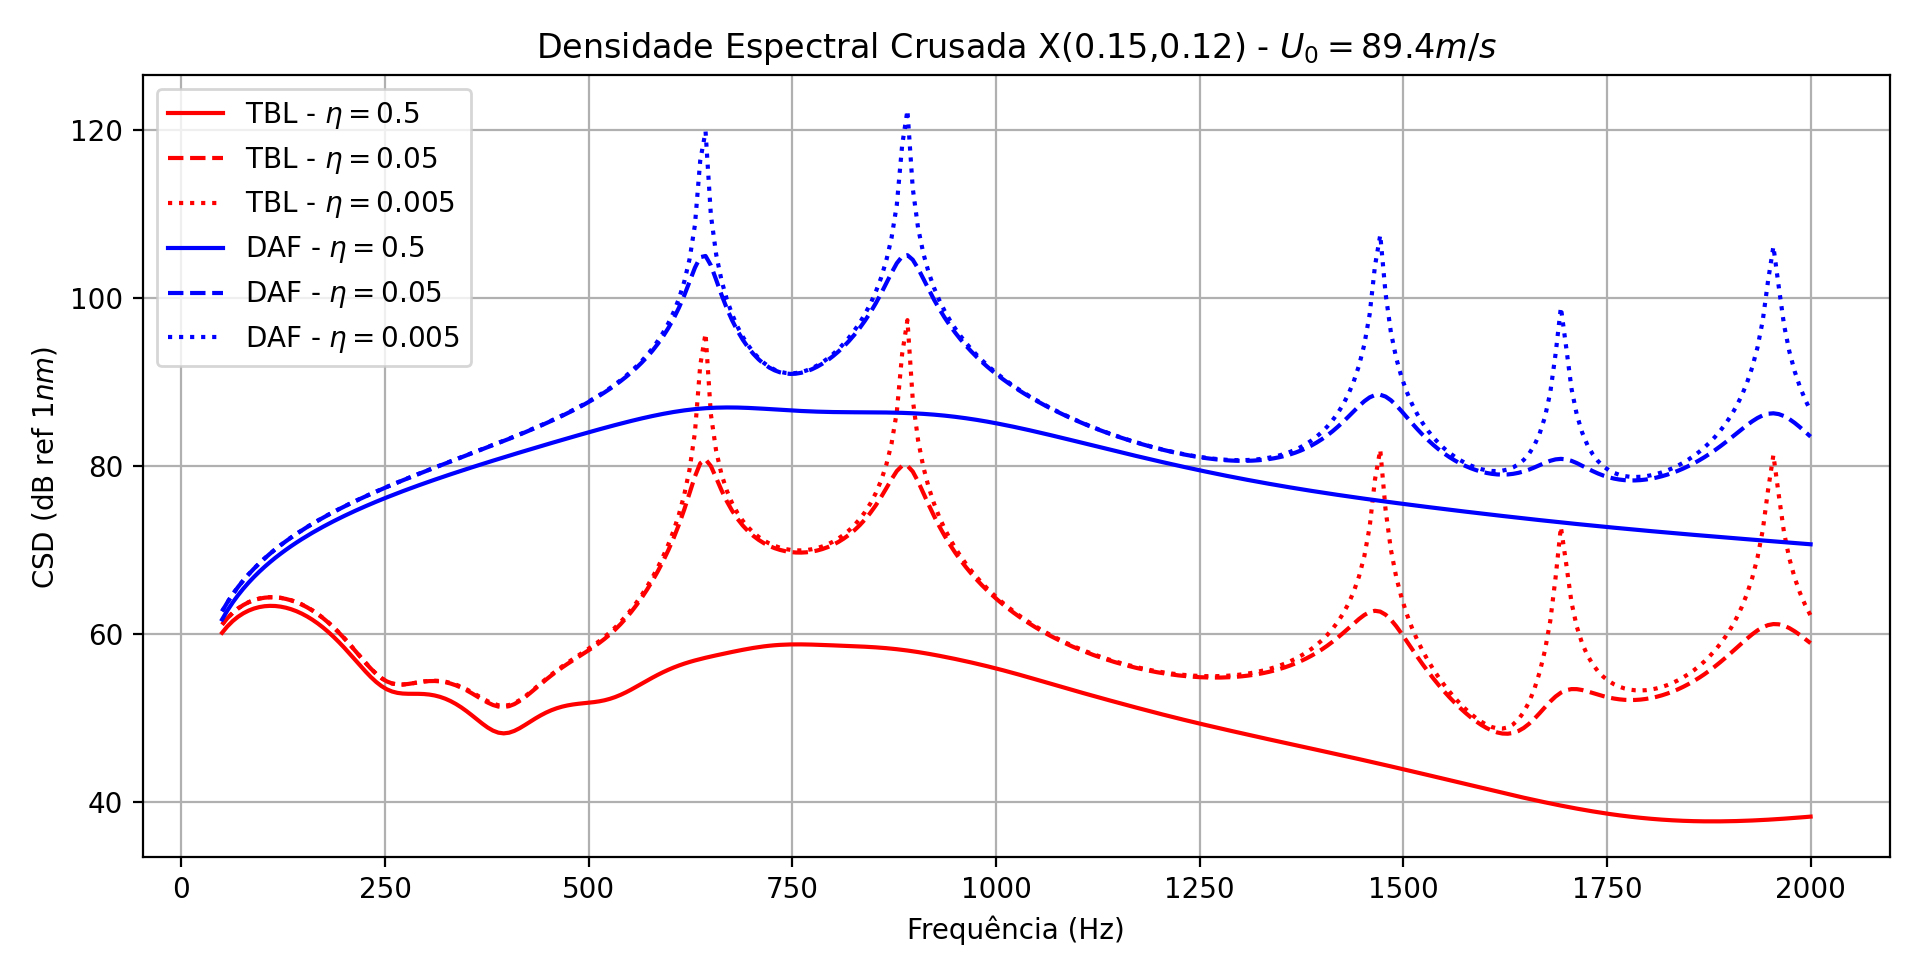
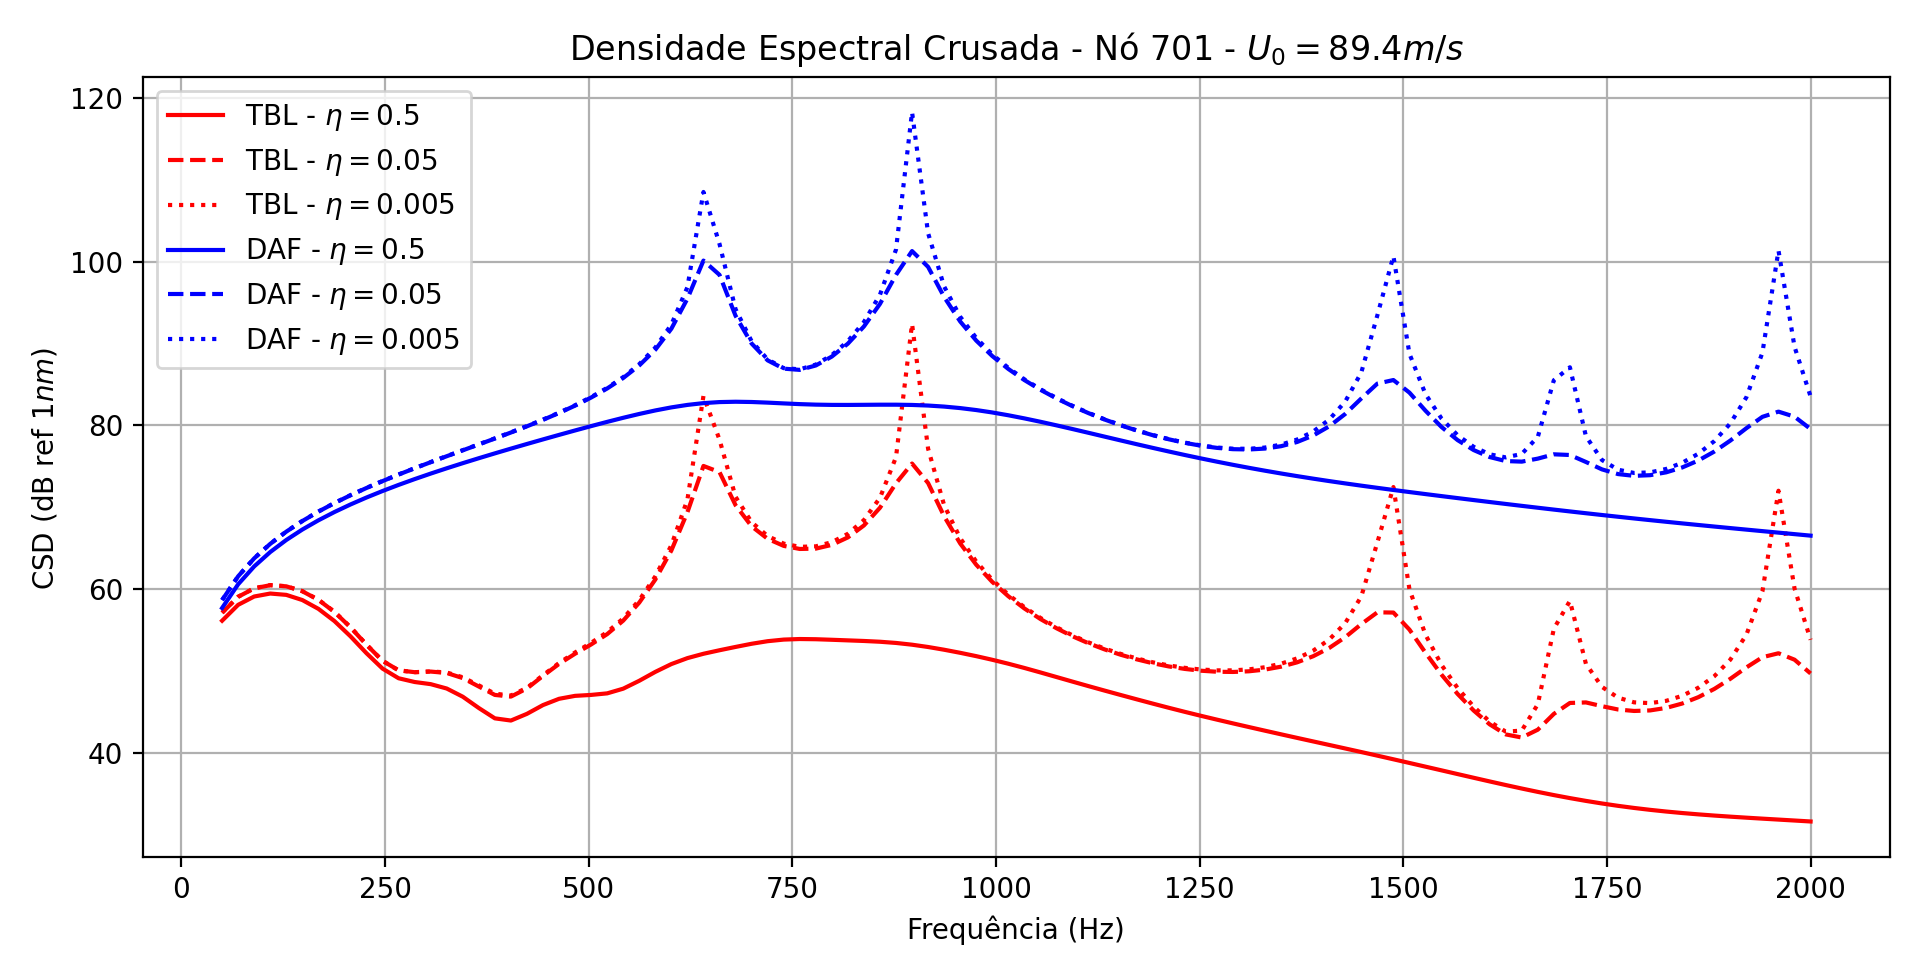
aeee porra

diff --git a/trabs/MAIN.py b/trabs/MAIN.py
@@ -1,6 +1,6 @@
 # %%
 import numpy as np
-
+from tqdm import tqdm
 import matplotlib.pyplot as plt
 import SHELL4 as fems4
 import SOLVE as solv
@@ -30,9 +30,9 @@ if __name__ == "__main__":
     
     
     # Propriedades
-    E = 210e9
-    rho = 8000
-    v = 0.3
+    E = 200e9
+    rho = 7850
+    v = 0.33
     alpha_x = 0.11
     alpha_y = 0.7
     rho_air =  1.1845
@@ -99,9 +99,9 @@ if __name__ == "__main__":
     print('Frequências Naturais:')
     print(natural_frequencies)
     # %%
-    freq = np.linspace(50,2000,300)
+    freq = np.linspace(50,2000,100)
     psd = pd.DataFrame(index=freq, dtype=float)
-    csd = pd.DataFrame(index=freq, dtype=complex)
+    csd = pd.DataFrame(index=freq, dtype=np.complex64)
     Vr = modal_shape[z_dofs,:]  # Modos normais
     wn = 2 * np.pi * natural_frequencies  # Frequências naturais (rad/s)
 <<<<<<< HEAD
@@ -122,27 +122,27 @@ if __name__ == "__main__":
     ksin = norm(np.stack((ksix,ksiy)),2,0)
     np.fill_diagonal(ksin,1)
     # %%
-    # Function to compute phi_pb for a specific frequency index kk
+    
     def compute_Gamma_DAF(kk,  k0,  ksin):
         Gamma = np.sin(k0 * ksin) / (k0 * ksin)
         return Gamma, kk
 
     # Preallocate arrays
-    Gamma_DAF = np.zeros((nnode, nnode, len(w_array)), dtype=complex)
+    Gamma_DAF = np.zeros((nnode, nnode, len(w_array)), dtype=np.complex64)
 
     # Parallel computation of phi_pb using joblib
     results_DAF = Parallel(n_jobs=-1)(delayed(compute_Gamma_DAF)(
         kk, k0, ksin) for kk, k0 in enumerate(k0_array))
 
     # Combine the results back into phi_pb
-    for Gamma, kk in results_DAF:
+    for Gamma, kk in tqdm(results_DAF):
         Gamma_DAF[:, :, kk] = Gamma
 
     #%%
-    for n_eta, eta in enumerate([0.5, 0.05, 0.005]):
+    for n_eta, eta in enumerate(tqdm([0.5, 0.05, 0.005])):
 
         # Inicializando as FRFs    
-        Hv = np.zeros((len(z_dofs), len(z_dofs), len(freq)), dtype=complex)
+        Hv = np.zeros((len(z_dofs), len(z_dofs), len(freq)), dtype=np.complex64)
         
         # Pré-calculando termos repetidos para otimização
         eta_wn2 = eta * wn**2  # Termo de amortecimento modal
@@ -151,7 +151,7 @@ if __name__ == "__main__":
         # Function to compute the FRF for a specific (glf, glr) pair
         def compute_FRF(glr, glf, w_array, wn2, eta_wn2, Vr, modes):
             # Initialize the result for this pair
-            Hv_glr_glf = np.zeros_like(w_array, dtype=complex)
+            Hv_glr_glf = np.zeros_like(w_array, dtype=np.complex64)
             
             # Calculate the denominator and FRF for each mode
             for k in range(modes):
@@ -163,17 +163,17 @@ if __name__ == "__main__":
             
             return Hv_glr_glf, glr, glf
         # Preallocate the array to store the final Hv
-        Hv = np.zeros((nnode, nnode, len(w_array)), dtype=complex)
+        Hv = np.zeros((nnode, nnode, len(w_array)), dtype=np.complex64)
 
         # Parallel computation of FRFs using joblib
         results = Parallel(n_jobs=-2)(delayed(compute_FRF)(
-            glr, glf, w_array, wn2, eta_wn2, Vr, modes) for glr in np.arange(nnode) for glf in np.arange(nnode))
+            glr, glf, w_array, wn2, eta_wn2, Vr, modes) for glr in np.arange(nnode) for glf in check_node)
 
         # Aggregate the results back into Hv
-        for Hv_glr_glf, glr, glf in results:
+        for Hv_glr_glf, glr, glf in tqdm(results):
             Hv[glr, glf, :] = Hv_glr_glf
         
-        for n_U0, U0 in enumerate([44.7, 89.4, 178.8]):
+        for n_U0, U0 in enumerate(tqdm([44.7, 89.4, 178.8])):
             Re_d = 8 * U0*d_/v_air
             tau_w = (0.0225 * rho_air * U0**2)/(Re_d**0.25)
             # Pré-computando constantes fora dos loops
@@ -185,7 +185,7 @@ if __name__ == "__main__":
             ksix = coord[:, None, 0] - coord[None, :, 0]  # Diferenças em x
             ksiy = coord[:, None, 1] - coord[None, :, 1]  # Diferenças em y
             Aij = (tamanho_elemento)**2  # Precomputando Aij fora do loop
-            Aij = 0.47*0.37  # Precomputando Aij fora do loop
+            Aij = 0.47*0.37/nnode  # Precomputando Aij fora do loop
             # Função paralelizada que será aplicada em cada frequência
             def compute_Gamma_TBL(kk, w, Uc, ksix, ksiy, alpha_x, alpha_y, Aij):
                 ksix_Uc = np.abs(w * ksix / Uc)
@@ -193,7 +193,7 @@ if __name__ == "__main__":
                 # Precomputando o termo Gamma
                 exp_x = np.exp(-alpha_x * ksix_Uc)  # Parte exponencial para ksix
                 exp_y = np.exp(-alpha_y * ksiy_Uc)  # Parte exponencial para ksiy
-                complex_exp = np.exp(1j * w * ksix / Uc)  # Parte exponencial complexa
+                complex_exp = np.exp(1j * w * ksix / Uc)  # Parte exponencial np.complex64a
 
                 Gamma = (1 + alpha_x * ksix_Uc) * exp_x * complex_exp * exp_y
                 return Gamma, kk
@@ -204,8 +204,8 @@ if __name__ == "__main__":
                 kk, w, Uc, ksix, ksiy, alpha_x, alpha_y, Aij) for kk, (w,  Uc) in enumerate(zip(w_array, Uc_array)))
 
             # Atualizando Gamma_w com os resultados paralelizados
-            Gamma_TBL = np.zeros((nnode,nnode,len(freq)), dtype=complex)   
-            for Gamma, kk in results_TBL:
+            Gamma_TBL = np.zeros((nnode,nnode,len(freq)), dtype=np.complex64)   
+            for Gamma, kk in tqdm(results_TBL):
                 Gamma_TBL[:,:,kk] = Gamma
 
             
@@ -224,15 +224,15 @@ if __name__ == "__main__":
 =======
 >>>>>>> 10da5ea (try out)
              
-            Gvv_TBL = np.zeros_like(Gamma_DAF, dtype=complex)
-            Gvv_DAF = np.zeros_like(Gamma_DAF, dtype=complex)
-            Gpp_TBL = np.zeros_like(Gamma_DAF, dtype=complex)
-            Gpp_DAF = np.zeros_like(Gamma_DAF, dtype=complex)
+            Gvv_TBL = np.zeros_like(Gamma_DAF, dtype=np.complex64)
+            Gvv_DAF = np.zeros_like(Gamma_DAF, dtype=np.complex64)
+            Gpp_TBL = np.zeros_like(Gamma_DAF, dtype=np.complex64)
+            Gpp_DAF = np.zeros_like(Gamma_DAF, dtype=np.complex64)
 
             
-            for ii in range(len(freq)):
-                Gvv_TBL[:,:,ii] = np.conj(Hv[:,:,ii].T)@(phi_pp[ii]*Gamma_TBL[:,:,ii])@Hv[:,:,ii]*Aij**2
-                Gvv_DAF[:,:,ii] = np.conj(Hv[:,:,ii].T)@(phi_pp[ii]*Gamma_DAF[:,:,ii])@Hv[:,:,ii]*Aij**2
+            for ii in tqdm(range(len(freq))):
+                Gvv_TBL[:,:,ii] = np.conj(Hv[:,:,ii].T)@(phi_pp[ii]*Gamma_TBL[:,:,ii])@Hv[:,:,ii]*Aij
+                Gvv_DAF[:,:,ii] = np.conj(Hv[:,:,ii].T)@(phi_pp[ii]*Gamma_DAF[:,:,ii])@Hv[:,:,ii]*Aij
                 Gpp_TBL[:,:,ii] = phi_pp[ii]*Gamma_TBL[:,:,ii]
                 Gpp_DAF[:,:,ii] = phi_pp[ii]*Gamma_DAF[:,:,ii]
                 
@@ -240,8 +240,8 @@ if __name__ == "__main__":
 
             
             psd[f'psd_{n_eta}_{n_U0}'] = phi_pp
-            csd[f'TBL_{n_eta}_{n_U0}'] = Gvv_TBL[check_node[1], check_node[1],:]
-            csd[f'DAF_{n_eta}_{n_U0}'] = Gvv_DAF[check_node[1], check_node[1],:]
+            csd[f'TBL_{n_eta}_{n_U0}'] = Gvv_TBL[check_node[0], check_node[0],:]
+            csd[f'DAF_{n_eta}_{n_U0}'] = Gvv_DAF[check_node[0], check_node[0],:]
 
     # %% 
     eta = [0.5, 0.05, 0.005]
@@ -344,7 +344,7 @@ if __name__ == "__main__":
     plt.show()
     # %%
     plt.figure(figsize=(16,9), dpi=200, layout='tight')
-    plt.title(rf"Densidade Espectral Crusada - Nó ${check_node[0]}$ - $\eta={eta[1]}$")
+    plt.title(rf"Densidade Espectral Crusada - Nó ${check_node[1]}$ - $\eta={eta[1]}$")
     plt.plot(10*np.log10(np.abs((Aij/8)**2*csd[f'TBL_{1}_{0}']/1e-9**2)), 'r')
     plt.plot(10*np.log10(np.abs((Aij/8)**2*csd[f'TBL_{1}_{1}']/1e-9**2)), '--r')
     plt.plot(10*np.log10(np.abs((Aij/8)**2*csd[f'TBL_{1}_{2}']/1e-9**2)), ':r')
@@ -353,6 +353,12 @@ if __name__ == "__main__":
     plt.plot(f_2, 10*np.log10(np.abs(Gvv_2/1e-9**2)), ':g')
     plt.xlabel('Frequência (Hz)')
     plt.ylabel('CSD (dB ref $1nm$) ')
+    plt.legend([rf"Nogueira - $\eta = {eta[1]}, U_0 = {U0[0]}$",
+                rf"Nogueira - $\eta = {eta[1]}, U_0 = {U0[1]}$",
+                rf"Nogueira - $\eta = {eta[1]}, U_0 = {U0[2]}$",
+                rf"Hambric - $\eta = {eta[1]}, U_0 = {U0[0]}$",
+                rf"Hambric - $\eta = {eta[1]}, U_0 = {U0[1]}$",
+                rf"Hambric - $\eta = {eta[1]}, U_0 = {U0[2]}$"])
     plt.grid(True)
     plt.show()
 
@@ -373,9 +379,9 @@ if __name__ == "__main__":
     plt.show()
 =======
     #plt.figure(figsize=(16,9), dpi=200, layout='tight')
-    #plt.title(rf"FRFs - do - Nó ${check_node[1]}$")
+    #plt.title(rf"FRFs - do - Nó ${check_node[0]}$")
     #plt.plot(freq,10*np.log10(np.abs(Hv.T)),'lightgray')
-    #plt.plot(freq,10*np.log10(np.abs(Hv[check_node[1],:].T)),'k')
+    #plt.plot(freq,10*np.log10(np.abs(Hv[check_node[0],:].T)),'k')
 #
     #plt.xlabel('Frequência (Hz)')
     #plt.ylabel('Mobilidade (dB)')
